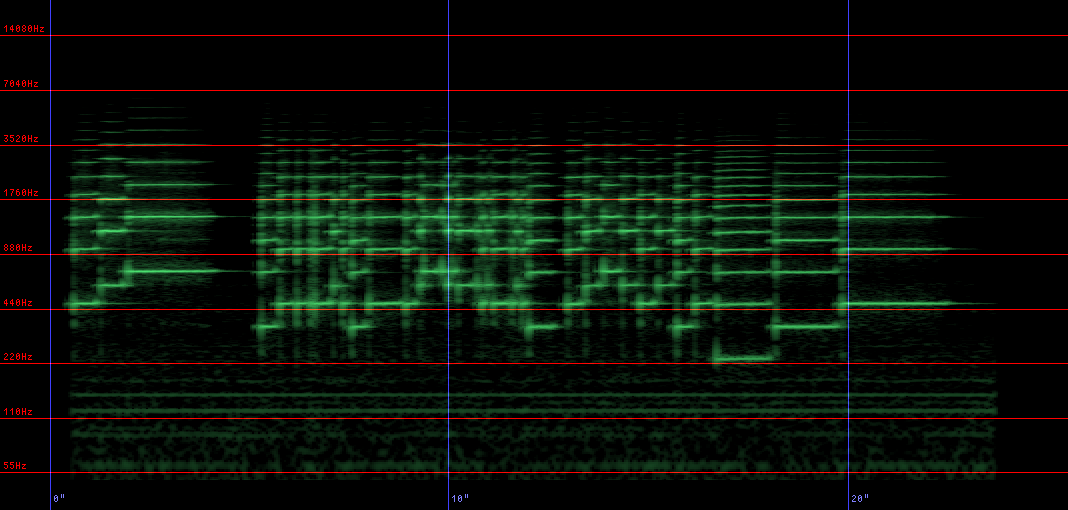
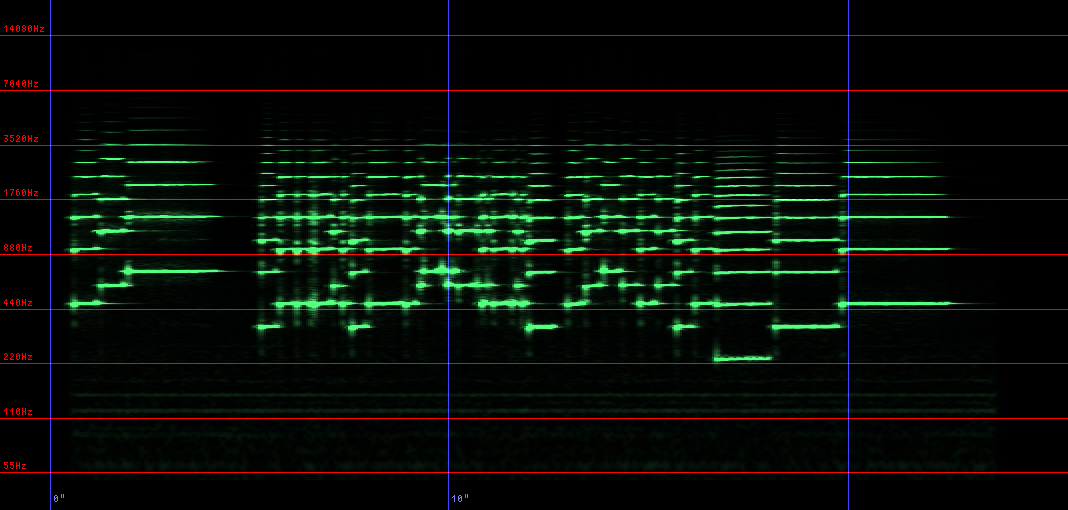
save work in progress

diff --git a/ext/wavspa/fft/rb_fft.c b/ext/wavspa/fft/rb_fft.c
@@ -343,7 +343,7 @@ rb_fft_set_frequency(VALUE self, VALUE freq)
 
 
 static VALUE
-rb_fft_spectrum(VALUE self)
+rb_fft_power(VALUE self)
 {
   rb_fft_t* ptr;
   VALUE ret;
@@ -366,9 +366,9 @@ rb_fft_spectrum(VALUE self)
    * call transform function
    */
   dat = RSTRING_PTR(ret);
-  err = fft_calc_spectrum(ptr->fft, dat);
+  err = fft_calc_power(ptr->fft, dat);
   if (err) {
-    RUNTIME_ERROR( "fft_calc_spectrum() failed. [err = %d]\n", err);
+    RUNTIME_ERROR( "fft_calc_power() failed. [err = %d]\n", err);
   }
 
   return ret;
@@ -455,7 +455,7 @@ Init_fft()
   rb_define_method(fft_klass, "transform", rb_fft_transform, 0);
   rb_define_method(fft_klass, "enqueue", rb_fft_enqueue, 1);
   rb_define_method(fft_klass, "<<", rb_fft_enqueue, 1);
-  rb_define_method(fft_klass, "spectrum", rb_fft_spectrum, 0);
+  rb_define_method(fft_klass, "power", rb_fft_power, 0);
   rb_define_method(fft_klass, "amplitude", rb_fft_amplitude, 0);
   rb_define_method(fft_klass, "absolute", rb_fft_absolute, 0);
 }

diff --git a/ext/wavspa/fft/fft.c b/ext/wavspa/fft/fft.c
@@ -769,7 +769,7 @@ fft_transform(fft_t* fft)
 }
 
 int
-fft_calc_spectrum(fft_t* fft, double* dst)
+fft_calc_power(fft_t* fft, double* dst)
 {
   int ret;
   int i;
@@ -805,7 +805,8 @@ fft_calc_spectrum(fft_t* fft, double* dst)
       v = 0;
 
       for(j = 0, a = fft->a + (lc->pos * 2); j < lc->n; j++, a += 2) {
-        v += 10.0 * log10((a[0] * a[0]) + (a[1] * a[1]));
+        //v += 10.0 * log10((a[0] * a[0]) + (a[1] * a[1]));
+        v += sqrt((a[0] * a[0]) + (a[1] * a[1]));
       }
 
       dst[i] = v / j;
@@ -846,7 +847,7 @@ fft_calc_amplitude(fft_t* fft, double* dst)
     }
 
     /*
-     * calc power spectrum
+     * calc amplitude spectrum
      */
     base = (double)fft->used;
 

diff --git a/ext/wavspa/fft/fft.h b/ext/wavspa/fft/fft.h
@@ -55,7 +55,7 @@ int fft_set_frequency(fft_t* fft, double s, double l, double h);
 int fft_shift_in(fft_t* fft, void* data, int n);
 int fft_reset(fft_t* fft);
 int fft_transform(fft_t* fft);
-int fft_calc_spectrum(fft_t* fft, double* dst);
+int fft_calc_power(fft_t* fft, double* dst);
 int fft_calc_amplitude(fft_t* fft, double* dst);
 int fft_calc_absolute(fft_t* fft, double* dst);
 

diff --git a/ext/wavspa/wavelet/walet.c b/ext/wavspa/wavelet/walet.c
@@ -754,7 +754,7 @@ walet_calc_power(walet_t* ptr, double* dst)
     for (i = 0; i < ptr->width; i++) {
       wt     = ptr->wt + (i * 2);
       // この辺は表示に合わせて適当に値を見繕ってるので注意
-      dst[i] = 512 * sqrt((wt[0] * wt[0]) + (wt[1] * wt[1]));
+      dst[i] = 192 * sqrt((wt[0] * wt[0]) + (wt[1] * wt[1]));
     }
   } while (0);
 

diff --git a/lib/wavspa/wavfft/main.rb b/lib/wavspa/wavfft/main.rb
@@ -104,8 +104,8 @@ module WavSpectrumAnalyzer
 
           fft << wav.read(usize)
 
-          if @transfer_mode == :POWER
-            fb.draw_power(rows, fft.spectrum)
+          if @transform_mode == :POWER
+            fb.draw_power(rows, fft.power)
           else
             fb.draw_amplitude(rows, fft.amplitude)
           end

diff --git a/ext/wavspa/fb/rb_fb.c b/ext/wavspa/fb/rb_fb.c
@@ -650,7 +650,7 @@ put_string(rb_fb_t* ptr, int row, int col,
       p += (ptr->stride - (5 * 3));
     }
 
-    col += 5;
+    col += 6;
   }
 }
 
